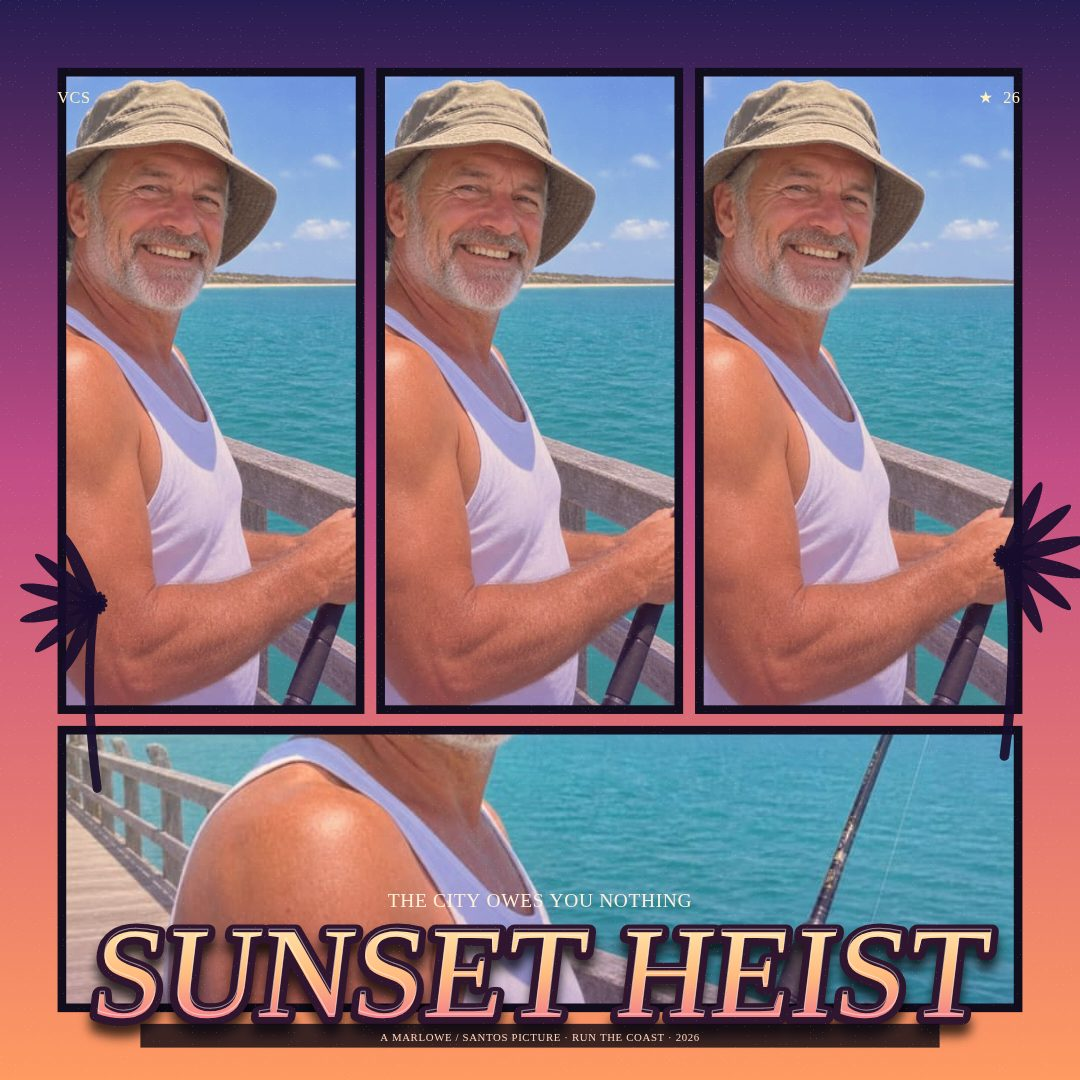
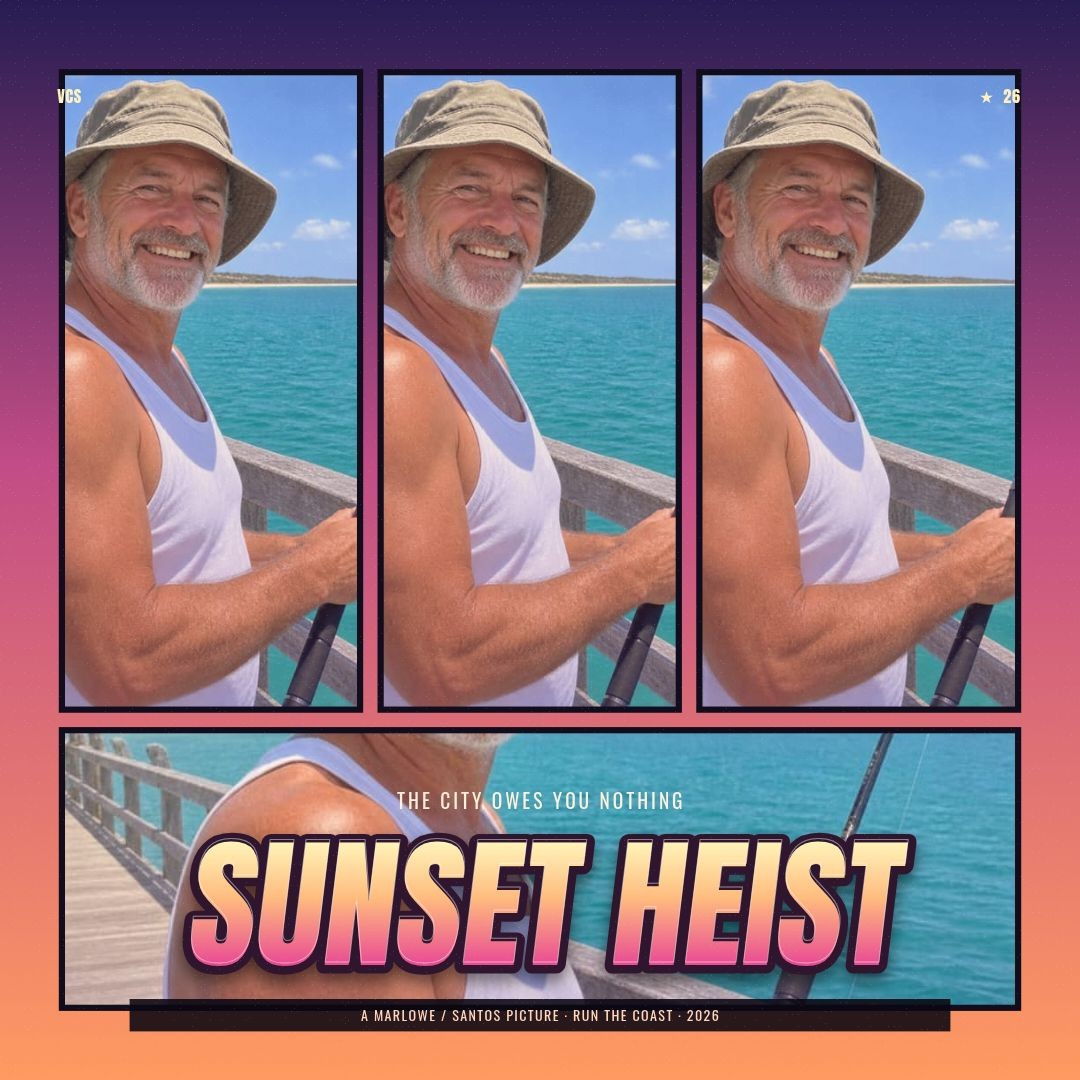
Polish: caption spacing, remove edge artifacts, lighter grades, selftest mode; re-take screenshots

diff --git a/app/src/cover.js b/app/src/cover.js
@@ -1,7 +1,8 @@
 const layouts={strips:{name:'NEON STRIPS',type:'strips',panels:[[.035,.045,.29,.62],[.345,.045,.29,.62],[.655,.045,.31,.62],[.035,.685,.93,.27]]},grid:{name:'MIDNIGHT GRID',type:'grid',panels:[[.035,.045,.45,.37],[.515,.045,.45,.37],[.035,.445,.45,.37],[.515,.445,.45,.37]]},hero:{name:'HERO & CUTS',type:'hero',panels:[[.035,.045,.57,.77],[.63,.045,.335,.36],[.63,.435,.335,.387]]},diagonal:{name:'CROSSFADE',type:'diagonal',panels:[[.035,.045,.93,.46],[.035,.535,.93,.287]]},film:{name:'COASTAL FILM',type:'film',panels:[[.035,.045,.93,.28],[.035,.355,.93,.28],[.035,.665,.93,.157]]}};
-const grades={sunset:{name:'VICE SUNSET',swatch:'linear-gradient(135deg,#ffb452,#eb497f 55%,#622e76)',filter:'saturate(1.35) contrast(1.07) sepia(.13)'},neon:{name:'NEON NIGHT',swatch:'linear-gradient(135deg,#00b9d5,#28307b 45%,#f03f9b)',filter:'saturate(1.55) contrast(1.15) brightness(.78)'},gold:{name:'TWILIGHT GOLD',swatch:'linear-gradient(135deg,#ffd266,#e57755 55%,#4b3269)',filter:'saturate(1.15) contrast(1.05) sepia(.34) brightness(.94)'},mono:{name:'HEAT MONO',swatch:'linear-gradient(135deg,#e9e2d2,#60636f)',filter:'grayscale(1) contrast(1.3) brightness(1.05)'}};export{layouts,grades};
+const grades={sunset:{name:'VICE SUNSET',swatch:'linear-gradient(135deg,#ffb452,#eb497f 55%,#622e76)',filter:'saturate(1.22) contrast(1.04) sepia(.09)'},neon:{name:'NEON NIGHT',swatch:'linear-gradient(135deg,#00b9d5,#28307b 45%,#f03f9b)',filter:'saturate(1.3) contrast(1.08) brightness(.88)'},gold:{name:'TWILIGHT GOLD',swatch:'linear-gradient(135deg,#ffd266,#e57755 55%,#4b3269)',filter:'saturate(1.1) contrast(1.03) sepia(.22) brightness(.97)'},mono:{name:'HEAT MONO',swatch:'linear-gradient(135deg,#e9e2d2,#60636f)',filter:'grayscale(1) contrast(1.18) brightness(1.04)'}};export{layouts,grades};
 function fit(ctx,t,max,s){ctx.font=`${s}px Anton`;while(ctx.measureText(t).width>max&&s>14){s-=2;ctx.font=`${s}px Anton`;}return s}function noise(x,y){return((x*73856093^y*19349663)>>>0)%101}
 function sky(ctx,w,h,g){const a=ctx.createLinearGradient(0,0,0,h);if(g===grades.neon){a.addColorStop(0,'#151747');a.addColorStop(.48,'#653575');a.addColorStop(1,'#e84e9d')}else if(g===grades.mono){a.addColorStop(0,'#293040');a.addColorStop(1,'#8b7775')}else{a.addColorStop(0,'#261c51');a.addColorStop(.43,'#c24c86');a.addColorStop(1,'#ff9a61')}ctx.fillStyle=a;ctx.fillRect(0,0,w,h);const x=w*.78,y=h*.19,r=Math.min(w,h)*.105;ctx.fillStyle=g===grades.neon?'#ffa4cc':'#ffcf89';ctx.globalAlpha=.82;ctx.beginPath();ctx.arc(x,y,r,0,7);ctx.fill();ctx.globalAlpha=.3;ctx.fillStyle='#732d69';for(let i=-3;i<4;i++)ctx.fillRect(x-r,y+i*r*.28,r*2,r*.035);ctx.globalAlpha=1}
-function palm(ctx,x,y,s,f=1){ctx.save();ctx.translate(x,y);ctx.scale(s*f,s);ctx.strokeStyle=ctx.fillStyle='#180d2c';ctx.lineCap='round';ctx.lineWidth=5;ctx.beginPath();ctx.moveTo(0,0);ctx.quadraticCurveTo(-8,-58,-1,-105);ctx.stroke();for(let a=-155;a<=-25;a+=26){ctx.save();ctx.translate(-1,-103);ctx.rotate(a*Math.PI/180);ctx.beginPath();ctx.ellipse(0,-18,4,25,0,0,7);ctx.fill();ctx.restore()}ctx.restore()}
-function panel(ctx,img,r,c,g){const[x,y,w,h]=r;ctx.save();ctx.beginPath();ctx.rect(x,y,w,h);ctx.clip();if(img){const iw=img.naturalWidth||img.width,ih=img.naturalHeight||img.height,z=Math.max(w/iw,h/ih)*(c.zoom||1),dw=iw*z,dh=ih*z;ctx.filter=g.filter;ctx.drawImage(img,x+(w-dw)/2+(c.x||0)*w,y+(h-dh)/2+(c.y||0)*h,dw,dh);ctx.filter='none'}else{const a=ctx.createLinearGradient(x,y,x+w,y+h);a.addColorStop(0,'#e05888');a.addColorStop(1,'#13224d');ctx.fillStyle=a;ctx.fillRect(x,y,w,h)}const a=ctx.createLinearGradient(x,y,x,y+h);a.addColorStop(0,'rgba(255,141,84,.1)');a.addColorStop(1,g===grades.neon?'rgba(22,10,80,.36)':'rgba(103,11,83,.25)');ctx.fillStyle=a;ctx.fillRect(x,y,w,h);ctx.restore()}
-export function renderCover(canvas,s,size){const w=size?.w||canvas.width,h=size?.h||canvas.height;canvas.width=w;canvas.height=h;const c=canvas.getContext('2d');c.imageSmoothingQuality='high';const l=layouts[s.layout]||layouts.strips,g=grades[s.grade]||grades.sunset;sky(c,w,h,g);const z=Math.min(w,h)*.024,u=[z,z,w-z*2,h-z*2],rects=l.panels.map(p=>[u[0]+p[0]*u[2],u[1]+p[1]*u[3],p[2]*u[2],p[3]*u[3]]);rects.forEach((r,i)=>{panel(c,s.photos[s.assign[i]||0],r,s.crops[i]||{},g);c.strokeStyle='#120d1d';c.lineWidth=Math.max(5,Math.min(w,h)*.008);c.strokeRect(...r)});const ty=h*.91,t=(s.title||'SUNSET HEIST').trim().toUpperCase();c.save();c.translate(w*.5,ty);c.transform(1,0,-.12,1,0,0);const fs=fit(c,t,w*.84,Math.min(w,h)*.142);c.font=`${fs}px Anton`;c.textAlign='center';c.textBaseline='middle';c.lineJoin='round';c.lineWidth=fs*.12;c.strokeStyle='#30152f';c.shadowColor='rgba(0,0,0,.75)';c.shadowOffsetY=fs*.09;c.shadowBlur=fs*.08;c.strokeText(t,0,0);c.shadowColor='transparent';const f=c.createLinearGradient(0,-fs*.6,0,fs*.6);if(s.grade==='neon'){f.addColorStop(0,'#f7d9ff');f.addColorStop(.5,'#ea77db');f.addColorStop(1,'#46d5e5')}else{f.addColorStop(0,'#fff4ba');f.addColorStop(.45,'#ffbc7f');f.addColorStop(1,'#e94893')}c.fillStyle=f;c.fillText(t,0,0);c.lineWidth=1;c.strokeStyle='rgba(255,255,255,.5)';c.strokeText(t,0,-fs*.025);c.restore();c.textAlign='center';c.textBaseline='alphabetic';c.font=`${Math.max(10,Math.min(w,h)*.018)}px Oswald`;c.fillStyle='#fff0dd';c.fillText((s.kicker||'').toUpperCase(),w/2,h*.84);c.fillStyle='rgba(10,7,18,.8)';c.fillRect(w*.13,h*.948,w*.74,Math.max(14,h*.022));c.font=`${Math.max(7,Math.min(w,h)*.01)}px Oswald`;c.fillStyle='#ffd6bf';c.fillText((s.billing||'').toUpperCase(),w/2,h*.964);c.font=`${Math.max(9,Math.min(w,h)*.015)}px Anton`;c.fillStyle='#fff0bf';c.textAlign='left';c.fillText('VCS',w*.053,h*.095);c.textAlign='right';c.fillText('★  26',w*.945,h*.095);c.globalAlpha=.93;palm(c,w*.09,h*.73,w/600);palm(c,w*.93,h*.70,w/560,-1);c.globalAlpha=.12;for(let y=0;y<h;y+=3)for(let x=(y%2)*3;x<w;x+=6)if(noise(x,y)<12){c.fillStyle='#fff';c.fillRect(x,y,1,1)}c.globalAlpha=1;return{rects}}
+function panel(ctx,img,r,c,g){const[x,y,w,h]=r;ctx.save();ctx.beginPath();ctx.rect(x,y,w,h);ctx.clip();if(img){const iw=img.naturalWidth||img.width,ih=img.naturalHeight||img.height,z=Math.max(w/iw,h/ih)*(c.zoom||1),dw=iw*z,dh=ih*z;ctx.filter=g.filter;ctx.drawImage(img,x+(w-dw)/2+(c.x||0)*w,y+(h-dh)/2+(c.y||0)*h,dw,dh);ctx.filter='none'}else{const a=ctx.createLinearGradient(x,y,x+w,y+h);a.addColorStop(0,'#e05888');a.addColorStop(1,'#13224d');ctx.fillStyle=a;ctx.fillRect(x,y,w,h)}const a=ctx.createLinearGradient(x,y,x,y+h);a.addColorStop(0,'rgba(255,141,84,.07)');a.addColorStop(1,g===grades.neon?'rgba(22,10,80,.24)':'rgba(103,11,83,.17)');ctx.fillStyle=a;ctx.fillRect(x,y,w,h);ctx.restore()}
+function textWidth(ctx,t,tracking=0){return ctx.measureText(t).width+Math.max(0,[...t].length-1)*tracking}
+function drawTracked(ctx,t,x,y,tracking=0){if(!tracking||t.length<2){ctx.fillText(t,x,y);return}const chars=[...t],width=textWidth(ctx,t,tracking);let cursor=x-width/2;for(const ch of chars){const glyph=ctx.measureText(ch).width;ctx.fillText(ch,cursor+glyph/2,y);cursor+=glyph+tracking}}
+export function renderCover(canvas,s,size){const w=size?.w||canvas.width,h=size?.h||canvas.height;canvas.width=w;canvas.height=h;const c=canvas.getContext('2d');c.imageSmoothingQuality='high';const m=Math.min(w,h),l=layouts[s.layout]||layouts.strips,g=grades[s.grade]||grades.sunset;sky(c,w,h,g);const z=m*.024,u=[z,z,w-z*2,h-z*2],rects=l.panels.map(p=>[u[0]+p[0]*u[2],u[1]+p[1]*u[3],p[2]*u[2],p[3]*u[3]]);const border=Math.max(3,m*.00575);rects.forEach((r,i)=>{panel(c,s.photos[s.assign[i]||0],r,s.crops[i]||{},g);c.strokeStyle='#120d1d';c.lineWidth=border;c.strokeRect(...r)});const t=(s.title||'SUNSET HEIST').trim().toUpperCase(),fs=fit(c,t,w*.82,m*.132);c.font=`${fs}px Anton`;const tm=c.measureText(t),ascent=tm.actualBoundingBoxAscent||fs*.76,descent=tm.actualBoundingBoxDescent||fs*.12,outline=fs*.06,shadowY=fs*.052,shadowBlur=fs*.11,margin=m*.045,billH=Math.max(17,m*.03),billY=h-margin-billH,billFont=Math.max(8,m*.013),billGap=Math.max(10,m*.012),titleBase=billY-billGap-descent-outline-shadowY-shadowBlur*.25,titleTop=titleBase-ascent-outline-shadowBlur*.25,titleBottom=titleBase+descent+outline+shadowY+shadowBlur*.25,kickerFont=Math.max(10,m*.018),kickerGap=Math.max(12,m*.018),kickerBase=Math.max(margin+kickerFont,titleTop-kickerGap),kickerTop=kickerBase-kickerFont;c.save();c.translate(w*.5,titleBase);c.transform(1,0,-.12,1,0,0);c.font=`${fs}px Anton`;c.textAlign='center';c.textBaseline='alphabetic';c.lineJoin='round';c.lineWidth=outline*2;c.strokeStyle='#30152f';c.shadowColor='rgba(0,0,0,.52)';c.shadowOffsetY=shadowY;c.shadowBlur=shadowBlur;c.strokeText(t,0,0);c.shadowColor='transparent';const f=c.createLinearGradient(0,-ascent,0,descent);if(s.grade==='neon'){f.addColorStop(0,'#f7d9ff');f.addColorStop(.5,'#ea77db');f.addColorStop(1,'#46d5e5')}else{f.addColorStop(0,'#fff4ba');f.addColorStop(.45,'#ffbc7f');f.addColorStop(1,'#e94893')}c.fillStyle=f;c.fillText(t,0,0);c.lineWidth=1;c.strokeStyle='rgba(255,255,255,.45)';c.strokeText(t,0,-fs*.02);c.restore();c.textAlign='center';c.textBaseline='alphabetic';c.font=`${kickerFont}px Oswald`;c.fillStyle='#fff0dd';drawTracked(c,(s.kicker||'').toUpperCase(),w/2,kickerBase,kickerFont*.12);c.fillStyle='rgba(10,7,18,.88)';c.fillRect(w*.12,billY,w*.76,billH);c.font=`${billFont}px Oswald`;c.fillStyle='#ffd6bf';drawTracked(c,(s.billing||'').toUpperCase(),w/2,billY+billH*.69,billFont*.055);c.font=`${Math.max(9,m*.015)}px Anton`;c.fillStyle='#fff0bf';c.textAlign='left';c.fillText('VCS',w*.053,h*.095);c.textAlign='right';c.fillText('★  26',w*.945,h*.095);c.globalAlpha=.12;for(let y=0;y<h;y+=3)for(let x=(y%2)*3;x<w;x+=6)if(noise(x,y)<12){c.fillStyle='#fff';c.fillRect(x,y,1,1)}c.globalAlpha=1;return{rects,caption:{titleTop,titleBase,titleBottom,kickerBase,kickerTop,kickerGap,billY,billH,billGap,margin}}}

diff --git a/app/src/main.js b/app/src/main.js
@@ -1,3 +1,3 @@
-import{renderCover,layouts,grades}from'./cover.js';import{shotOptions}from'./shots.js';const $=s=>document.querySelector(s),canvas=$('#cover');const state={photos:[],assign:[0,0,0,0,0],crops:Array.from({length:5},()=>({x:0,y:0,zoom:1})),layout:'strips',grade:'sunset',title:'SUNSET HEIST',kicker:'THE CITY OWES YOU NOTHING',billing:'A MARLOWE / SANTOS PICTURE · RUN THE COAST · 2026',active:0};let rects=[];function render(){rects=renderCover(canvas,state);const p=state.crops[state.active]||{zoom:1};$('#zoom-input').value=p.zoom;$('#zoom-value').textContent=`${Math.round(p.zoom*100)}%`;$('#active-panel').textContent=`PANEL ${String(state.active+1).padStart(2,'0')} SELECTED`}function load(url){return new Promise((ok,no)=>{const i=new Image();i.onload=()=>ok(i);i.onerror=no;i.src=url})}function updatePhotos(){const x=$('#photo-strip');x.innerHTML='';state.photos.forEach((im,i)=>{const a=new Image();a.src=im.src;a.className='photo-thumb'+(i===state.assign[state.active]?' selected':'');a.title=`Assign photo ${i+1} to selected panel`;a.onclick=()=>{state.assign[state.active]=i;updatePhotos();render()};x.append(a)})}function addImage(i){state.photos.push(i);state.assign=state.assign.map((x,n)=>n===0?state.photos.length-1:x);updatePhotos();render()}function sample(n){load(`samples/${n}.jpg`).then(i=>{state.photos=[i];state.assign=[0,0,0,0,0];state.crops=Array.from({length:5},()=>({x:0,y:0,zoom:1}));document.querySelectorAll('[data-sample]').forEach(b=>b.classList.toggle('active',b.dataset.sample===n));updatePhotos();render()})}
+import{renderCover,layouts,grades}from'./cover.js';import{shotOptions}from'./shots.js';const $=s=>document.querySelector(s),canvas=$('#cover');const state={photos:[],assign:[0,0,0,0,0],crops:Array.from({length:5},()=>({x:0,y:0,zoom:1})),layout:'strips',grade:'sunset',title:'SUNSET HEIST',kicker:'THE CITY OWES YOU NOTHING',billing:'A MARLOWE / SANTOS PICTURE · RUN THE COAST · 2026',active:0};let rects=[];function render(){rects=renderCover(canvas,state).rects;const p=state.crops[state.active]||{zoom:1};$('#zoom-input').value=p.zoom;$('#zoom-value').textContent=`${Math.round(p.zoom*100)}%`;$('#active-panel').textContent=`PANEL ${String(state.active+1).padStart(2,'0')} SELECTED`}function load(url){return new Promise((ok,no)=>{const i=new Image();i.onload=()=>ok(i);i.onerror=no;i.src=url})}function updatePhotos(){const x=$('#photo-strip');x.innerHTML='';state.photos.forEach((im,i)=>{const a=new Image();a.src=im.src;a.className='photo-thumb'+(i===state.assign[state.active]?' selected':'');a.title=`Assign photo ${i+1} to selected panel`;a.onclick=()=>{state.assign[state.active]=i;updatePhotos();render()};x.append(a)})}function addImage(i){state.photos.push(i);state.assign=state.assign.map((x,n)=>n===0?state.photos.length-1:x);updatePhotos();render()}function sample(n){load(`samples/${n}.jpg`).then(i=>{state.photos=[i];state.assign=[0,0,0,0,0];state.crops=Array.from({length:5},()=>({x:0,y:0,zoom:1}));document.querySelectorAll('[data-sample]').forEach(b=>b.classList.toggle('active',b.dataset.sample===n));updatePhotos();render()})}
 function choices(){const ll=$('#layout-list');Object.entries(layouts).forEach(([k,o])=>{const b=document.createElement('button');b.className='layout-btn'+(k===state.layout?' active':'');b.innerHTML=`<i class="mini ${o.type}"></i><span>${o.name}</span>`;b.onclick=()=>{state.layout=k;state.active=0;document.querySelectorAll('.layout-btn').forEach(x=>x.classList.toggle('active',x===b));render()};ll.append(b)});const gl=$('#grade-list');Object.entries(grades).forEach(([k,o])=>{const b=document.createElement('button');b.className='grade-btn'+(k===state.grade?' active':'');b.style.setProperty('--swatch',o.swatch);b.innerHTML=`<span>${o.name}</span>`;b.onclick=()=>{state.grade=k;document.querySelectorAll('.grade-btn').forEach(x=>x.classList.toggle('active',x===b));render()};gl.append(b)})}function exportPng(k){const[w,h]=k.split('x').map(Number),t=document.createElement('canvas');renderCover(t,state,{w,h});t.toBlob(b=>{const a=document.createElement('a');a.href=URL.createObjectURL(b);a.download=`vice-cover-${k}.png`;a.click();setTimeout(()=>URL.revokeObjectURL(a.href),500);$('#status').textContent=`Saved vice-cover-${k}.png`},'image/png')}
-function events(){['title','kicker','billing'].forEach(n=>{const e=$(`#${n}-input`);e.oninput=()=>{state[n]=e.value;render()}});$('#photo-input').onchange=e=>[...e.target.files].forEach(f=>load(URL.createObjectURL(f)).then(addImage));document.querySelectorAll('[data-sample]').forEach(b=>b.onclick=()=>sample(b.dataset.sample));const d=$('#dropzone');['dragenter','dragover'].forEach(v=>d.addEventListener(v,e=>{e.preventDefault();d.classList.add('drag')}));['dragleave','drop'].forEach(v=>d.addEventListener(v,e=>{e.preventDefault();d.classList.remove('drag')}));d.addEventListener('drop',e=>[...e.dataTransfer.files].filter(f=>f.type.startsWith('image/')).forEach(f=>load(URL.createObjectURL(f)).then(addImage)));$('#zoom-input').oninput=e=>{state.crops[state.active].zoom=+e.target.value;render()};canvas.addEventListener('wheel',e=>{e.preventDefault();const c=state.crops[state.active];c.zoom=Math.max(.7,Math.min(2.7,c.zoom-e.deltaY*.001));render()},{passive:false});let drag;canvas.onpointerdown=e=>{const b=canvas.getBoundingClientRect(),x=(e.clientX-b.left)*canvas.width/b.width,y=(e.clientY-b.top)*canvas.height/b.height,h=rects.findIndex(r=>x>=r[0]&&x<=r[0]+r[2]&&y>=r[1]&&y<=r[1]+r[3]);if(h>=0){state.active=h;drag={x,y};canvas.setPointerCapture(e.pointerId);render()}};canvas.onpointermove=e=>{if(!drag)return;const b=canvas.getBoundingClientRect(),x=(e.clientX-b.left)*canvas.width/b.width,y=(e.clientY-b.top)*canvas.height/b.height,r=rects[state.active],c=state.crops[state.active];c.x=Math.max(-1,Math.min(1,c.x+(x-drag.x)/r[2]));c.y=Math.max(-1,Math.min(1,c.y+(y-drag.y)/r[3]));drag={x,y};render()};canvas.onpointerup=()=>drag=null;document.querySelectorAll('[data-export]').forEach(b=>b.onclick=()=>exportPng(b.dataset.export))}async function init(){choices();events();const q=shotOptions();if(q.shot){state.title=q.title;state.layout=layouts[q.layout]?q.layout:'strips';state.grade=grades[q.grade]?q.grade:'sunset';$('#title-input').value=state.title;if(q.shot==='cover')document.body.classList.add('shot-cover');await document.fonts.ready;sample(q.photo);await new Promise(r=>setTimeout(r,100));render();requestAnimationFrame(()=>requestAnimationFrame(()=>window.__shotReady=true))}else sample('pier')}init();
+function events(){['title','kicker','billing'].forEach(n=>{const e=$(`#${n}-input`);e.oninput=()=>{state[n]=e.value;render()}});$('#photo-input').onchange=e=>[...e.target.files].forEach(f=>load(URL.createObjectURL(f)).then(addImage));document.querySelectorAll('[data-sample]').forEach(b=>b.onclick=()=>sample(b.dataset.sample));const d=$('#dropzone');['dragenter','dragover'].forEach(v=>d.addEventListener(v,e=>{e.preventDefault();d.classList.add('drag')}));['dragleave','drop'].forEach(v=>d.addEventListener(v,e=>{e.preventDefault();d.classList.remove('drag')}));d.addEventListener('drop',e=>[...e.dataTransfer.files].filter(f=>f.type.startsWith('image/')).forEach(f=>load(URL.createObjectURL(f)).then(addImage)));$('#zoom-input').oninput=e=>{state.crops[state.active].zoom=+e.target.value;render()};canvas.addEventListener('wheel',e=>{e.preventDefault();const c=state.crops[state.active];c.zoom=Math.max(.7,Math.min(2.7,c.zoom-e.deltaY*.001));render()},{passive:false});let drag;canvas.onpointerdown=e=>{const b=canvas.getBoundingClientRect(),x=(e.clientX-b.left)*canvas.width/b.width,y=(e.clientY-b.top)*canvas.height/b.height,h=rects.findIndex(r=>x>=r[0]&&x<=r[0]+r[2]&&y>=r[1]&&y<=r[1]+r[3]);if(h>=0){state.active=h;drag={x,y};canvas.setPointerCapture(e.pointerId);render()}};canvas.onpointermove=e=>{if(!drag)return;const b=canvas.getBoundingClientRect(),x=(e.clientX-b.left)*canvas.width/b.width,y=(e.clientY-b.top)*canvas.height/b.height,r=rects[state.active],c=state.crops[state.active];c.x=Math.max(-1,Math.min(1,c.x+(x-drag.x)/r[2]));c.y=Math.max(-1,Math.min(1,c.y+(y-drag.y)/r[3]));drag={x,y};render()};canvas.onpointerup=()=>drag=null;document.querySelectorAll('[data-export]').forEach(b=>b.onclick=()=>exportPng(b.dataset.export))}function selftest(){const checks=[[1080,1080],[1080,1350],[1920,1080]].map(([w,h])=>{const testCanvas=document.createElement('canvas'),caption=renderCover(testCanvas,state,{w,h}).caption;return caption.kickerTop>=caption.margin&&caption.kickerBase<=caption.titleTop-caption.kickerGap&&caption.titleBottom<=caption.billY-caption.billGap&&caption.billY+caption.billH<=h-caption.margin+.01});if(!checks.every(Boolean))throw new Error('caption layout self-test failed');document.body.innerHTML='<pre>VICE COVER SELFTEST: PASS</pre>';window.__shotReady=true}async function init(){choices();events();const q=shotOptions();if(q.shot){state.title=q.title;state.layout=layouts[q.layout]?q.layout:'strips';state.grade=grades[q.grade]?q.grade:'sunset';$('#title-input').value=state.title;await document.fonts.ready;if(q.shot==='selftest'){selftest();return}if(q.shot==='cover')document.body.classList.add('shot-cover');sample(q.photo);await new Promise(r=>setTimeout(r,100));render();requestAnimationFrame(()=>requestAnimationFrame(()=>window.__shotReady=true))}else sample('pier')}init();
